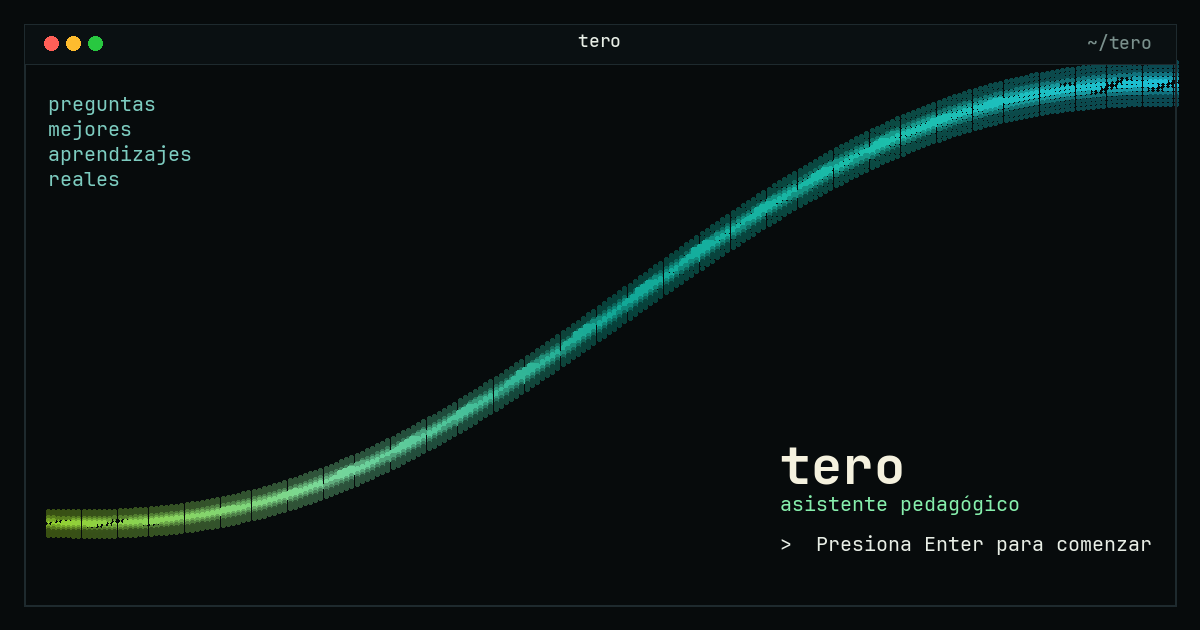
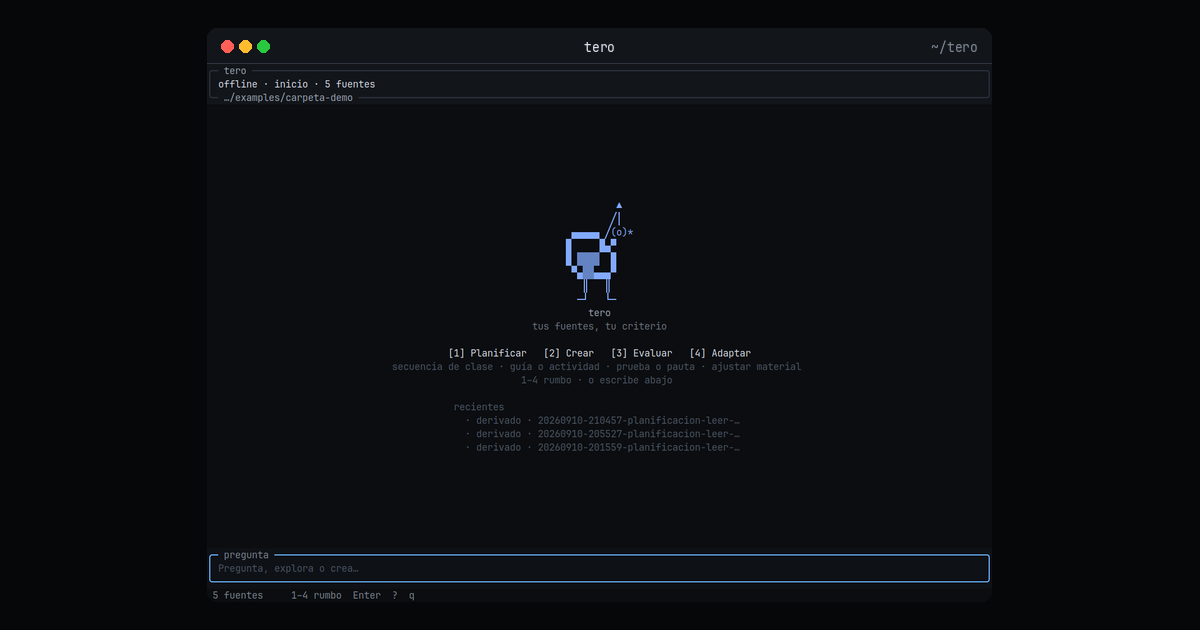
fix(site): drop splash wave and compose OG from OpenTUI home
The GitHub card was still the ASCII ribbon. Compose it from the
captured 140×40 home inside the same traffic window, and delete
the unused wave.js.

diff --git a/tui/scripts/compose-og.py b/tui/scripts/compose-og.py
@@ -1,0 +1,75 @@
+#!/usr/bin/env python3
+"""Compose site/assets/tero-og.png from the captured OpenTUI home.
+
+The OG card is the landing window (traffic + tero + ~/tero) hugging the
+live 140×40 JetBrains shot — not the old splash wave.
+"""
+
+from __future__ import annotations
+
+from pathlib import Path
+
+from PIL import Image, ImageDraw, ImageFont
+
+ROOT = Path(__file__).resolve().parents[1].parent
+HOME = ROOT / "site" / "assets" / "tui" / "frames" / "home.png"
+OUT = ROOT / "site" / "assets" / "tero-og.png"
+FONT = Path("/usr/share/fonts/truetype/jetbrains-mono/JetBrainsMono-Medium.ttf")
+
+OG_W, OG_H = 1200, 630
+BG = (5, 7, 8)
+PANEL = (18, 21, 26)
+BORDER = (44, 51, 60)
+TEXT = (216, 222, 233)
+MUTED = (122, 132, 144)
+TRAFFIC = ((255, 95, 87), (254, 188, 46), (40, 200, 64))
+CHROME_H = 36
+PAD = 28
+RADIUS = 10
+
+
+def rounded_mask(size: tuple[int, int], radius: int) -> Image.Image:
+    mask = Image.new("L", size, 0)
+    ImageDraw.Draw(mask).rounded_rectangle((0, 0, size[0] - 1, size[1] - 1), radius, fill=255)
+    return mask
+
+
+def main() -> None:
+    shot = Image.open(HOME).convert("RGB")
+    max_w = OG_W - PAD * 2
+    max_h = OG_H - PAD * 2 - CHROME_H
+    scale = min(max_w / shot.width, max_h / shot.height, 1)
+    inner_w = max(1, round(shot.width * scale))
+    inner_h = max(1, round(shot.height * scale))
+    inner = shot.resize((inner_w, inner_h), Image.Resampling.LANCZOS)
+
+    win_w = inner_w
+    win_h = CHROME_H + inner_h
+    window = Image.new("RGB", (win_w, win_h), (11, 13, 16))
+    draw = ImageDraw.Draw(window)
+    draw.rectangle((0, 0, win_w, CHROME_H), fill=PANEL)
+    draw.line((0, CHROME_H - 1, win_w, CHROME_H - 1), fill=BORDER)
+    x = 14
+    for color in TRAFFIC:
+        draw.ellipse((x, 12, x + 12, 24), fill=color)
+        x += 18
+    font = ImageFont.truetype(str(FONT), 13) if FONT.is_file() else ImageFont.load_default()
+    title = "tero"
+    tw = draw.textlength(title, font=font)
+    draw.text(((win_w - tw) / 2, 10), title, fill=TEXT, font=font)
+    path = "~/tero"
+    pw = draw.textlength(path, font=font)
+    draw.text((win_w - pw - 14, 10), path, fill=MUTED, font=font)
+    window.paste(inner, (0, CHROME_H))
+
+    masked = Image.new("RGB", window.size, BG)
+    masked.paste(window, (0, 0), rounded_mask(window.size, RADIUS))
+
+    canvas = Image.new("RGB", (OG_W, OG_H), BG)
+    canvas.paste(masked, ((OG_W - win_w) // 2, (OG_H - win_h) // 2))
+    canvas.save(OUT, optimize=True)
+    print(f"wrote {OUT} {canvas.size} from {HOME.name} @{scale:.3f}")
+
+
+if __name__ == "__main__":
+    main()

diff --git a/tests/test_site_ficha.py b/tests/test_site_ficha.py
@@ -51,6 +51,8 @@ def test_ficha_landing_is_the_github_page():
     assert "term-chrome" not in html
     assert 'id="splash"' not in html
     assert 'id="wave"' not in html
+    assert "wave.js" not in html
+    assert not (SITE / "wave.js").exists()
     assert "asistente pedagógico" in html
     assert "Vanellus chilensis" in html
     assert "queltehue" in html
@@ -189,9 +191,19 @@ def test_ficha_assets_and_pages_workflow():
     assert "stamp.py" in sitio
     assert "tui-grid.js" in sitio
     assert "capture-frames" in sitio
+    assert "compose-og" in sitio
     assert "una sola ventana" in sitio.lower() or "una ventana" in sitio.lower()
     readme = _read(ROOT / "README.md")
     assert "settings/pages" in readme
+    agents = _read(ROOT / "AGENTS.md")
+    assert "splash + ASCII wave" not in agents
+    assert "OpenTUI" in agents
+    arch = _read(ROOT / "ARCHITECTURE.md")
+    assert "not a splash wave" in arch.lower()
+    assert "OpenTUI of tero" in arch
+    contrib = _read(ROOT / "CONTRIBUTING.md")
+    assert "ola ASCII" not in contrib
+    assert "OpenTUI" in contrib
 
 
 def test_ficha_serve_maps_missing_path_to_extraviada_sheet():
